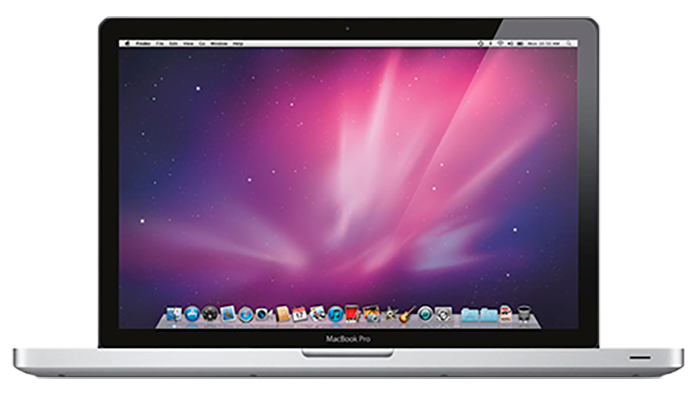
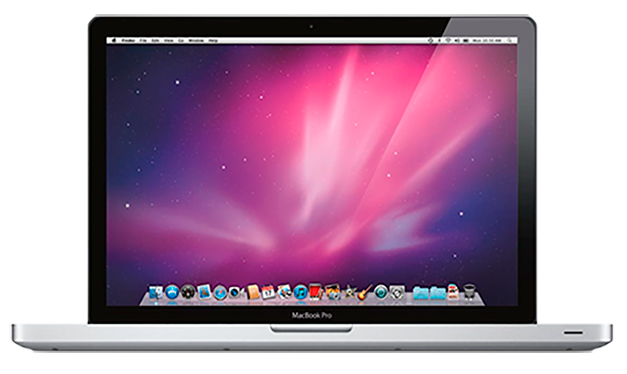
Atualizando MQv1.1

diff --git a/index.html b/index.html
@@ -212,14 +212,14 @@
 	</section>
 	<!--ESTAMOS CONTRATANDO-->
 	<section id="trabconosco">
-		<div class="container-fluid">
-			<div class="row" style=" width: 1349px" >
-				<div class="col-md-6">
+		<div class="container">
+			<div class="row" style="" >
+				<div class="col-sm-6">
 					<h2>Estamos Contratando!</h2>
 					<p class="text-justify">Você quer ser um de nós? Claro que você quer, porque nós somos uma equipe incrível! Aqui nós trabalhamos duro todos os dias para criar sites perfeitos em pixels.</p>
 					<button type="button" class="btn btn-outline-primary">Saiba Mais!</button>
 				</div>
-				<div class="col-md-6">
+				<div class="col-sm-6">
 					<img src="img/macbook.png" class="img-fluid" alt="Responsive image">
 				</div>
 			</div>
@@ -252,7 +252,7 @@
 					<img src="img/team03.jpg" class="rounded-circle" style="position: absolute;">
 					<h3 id="h3bruce">Bruce Banner</h3>
 					<p class="text-muted" id="txtMuted" style="margin-top: -6px;">Publicado 10 de Setembro</p>
-					<h2 id="TituloBruce">Uma História Fantastica</h2>
+					<h2 id="TituloBruce">Uma História Fantástica</h2>
 					<p id="blogBruce">Contrary to popular belief, Lorem Ipsum is not simply random text. It has roots in a piece of classical Latin literature from 45 BC, making it over 2000 years old. Richard McClintock, a Latin professor at Hampden-Sydney College in Virginia, looked up one of the more obscure Latin words, consectetur, from a Lorem Ipsum passage, and going through the cites of the word in classical literature, discovered the undoubtable source. </p>
 					<a class="btn btn-outline-primary" href="#" role="button">Read More</a>
 				</div>

diff --git a/css/style.css b/css/style.css
@@ -177,9 +177,8 @@ h6 {
 }
 
 .img-fluid {
-	max-width: 100%;
-	height: auto;
-	margin-top: 0%;
+	
+	margin: 0 auto;
 }
 
 
@@ -207,7 +206,7 @@ h6 {
 }
 
 #blogTony {
-	margin-top: 22px;
+	margin-top: 110px;
 }
 
 
@@ -287,6 +286,8 @@ h6 {
 
 
 /*MEDIA QUERIES*/
+
+
 @media (max-width: 990px) and (min-width: 501px) {
 	#h3tony {
 		margin-left: 142px;
@@ -358,7 +359,7 @@ h6 {
 
 @media (max-width: 991px) and (min-width: 500px){
 	#imgDiamante{
-		margin-right: 74%;
+		margin-right: 64%;
     position: initial;
 }
 	}
